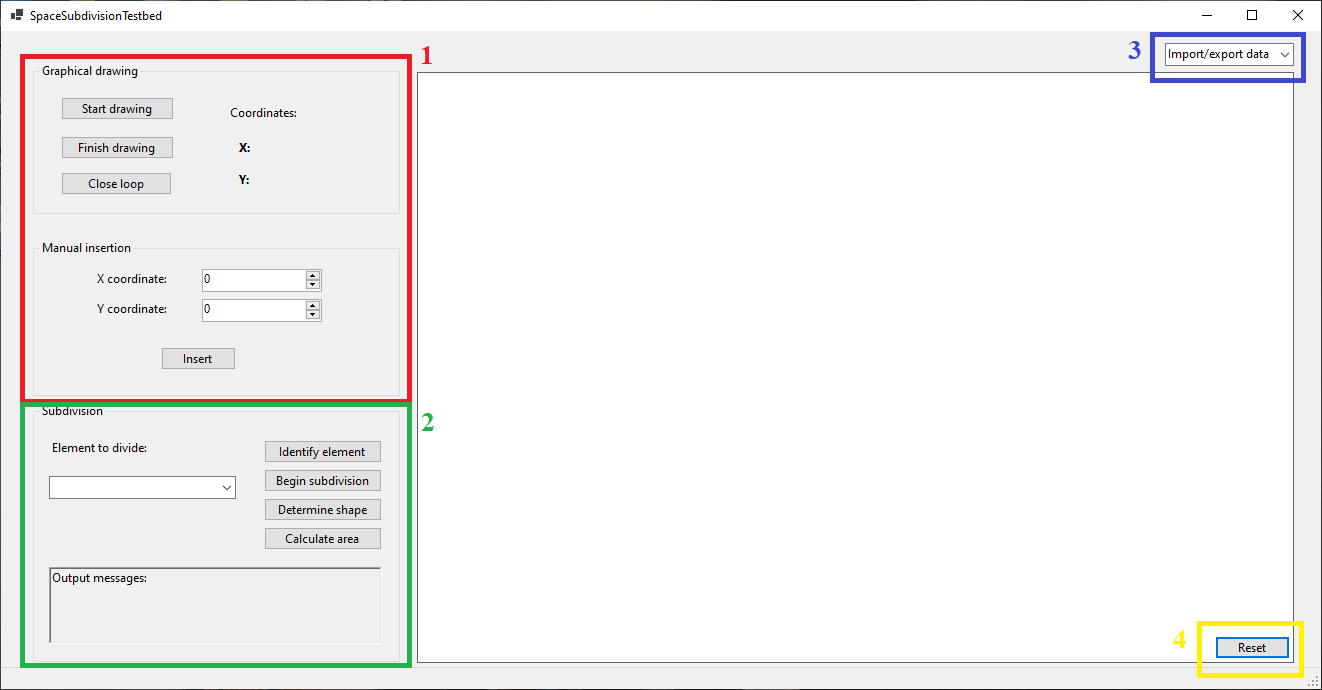
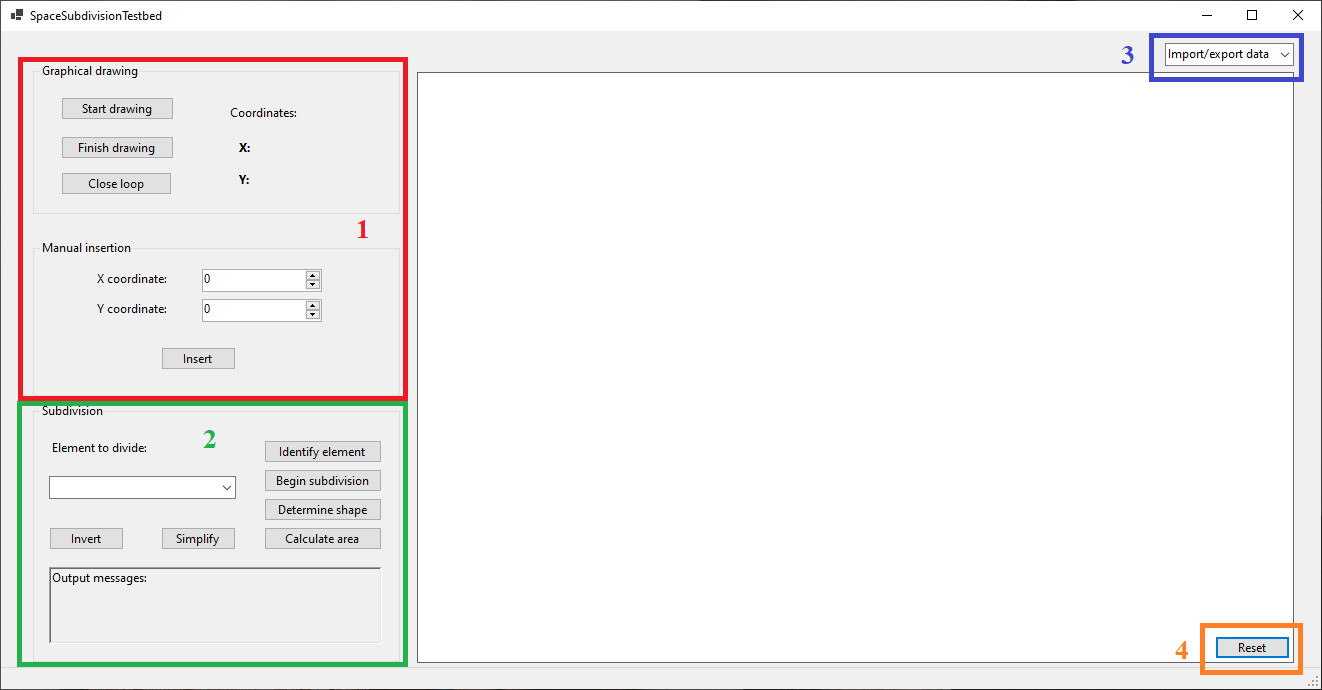
major readme update

diff --git a/README.md b/README.md
@@ -1,6 +1,6 @@
 # SpaceSubdivisionTestbed
 
-*SpaceSubdivisionTestbed* is a desktop graphical tool intended for subdividing different types of 2D space. The application was created by using .NET 6 framework and the Windows Forms template type.
+*SpaceSubdivisionTestbed* is a desktop graphical tool intended for automatically subdividing different types of 2D polygons. The application was created by using .NET 6 framework and the Windows Forms template type.
 
 If you use this application, please cite the following work:
 
@@ -32,9 +32,11 @@ The user interface of the application is shown below. It consists of four main f
 
 ### 1. Drawing shapes
 
-Drawing shapes is done by adding edges to the panel. All edges must be added in a counter-clockwise order with any starting point. To initiate drawing, the user first needs to click on the *Start drawing* button. Shapes can be drawn in two ways:
+Drawing shapes is done by adding polygon edges to the panel. All edges must be added in a counter-clockwise order with any starting point. If the user reverses the order, they can always use the *Invert* button from the *Subdivision* groupbox to reverse the order a second time.
 
-1. **Graphical drawing**, which allows the user to draw a shape by using their pointer on the panel. After starting the drawing, the user needs to click on the desired location in order to add a new node described by X and Y coordinates. After adding the initial node, the current pointer location is shown on the left side of the *Graphical drawing* groupbox.
+To initiate drawing, the user first needs to click on the *Start drawing* button. Shapes can be drawn on the panel in two ways:
+
+1. **Graphical drawing**, which allows the user to draw a polygon by using their pointer on the panel. After starting the drawing, the user needs to click on the desired location in order to add a new node described by X and Y coordinates. After adding the initial node, the current pointer location is shown on the left side of the *Graphical drawing* groupbox (X and Y coordinates).
 
 An example of graphical drawing is shown below.
 
@@ -46,37 +48,45 @@ An example of manual insertion is shown below.
 
 ![](https://github.com/ehlymana/SpaceSubdivisionTestbed/blob/main/README%20figures/manual.gif)
 
-The process of drawing a shape is finished when the final node is equal to the starting node. In order to achieve this, the user can either graphically or manually specify this node (and create the final edge) and then click on the *Finish drawing* button. Alternatively, the user can click on the *Close loop* button which will automatically add the final edge and finish drawing the shape.
+The process of drawing a polygon is finished when the final node is equal to the starting node. In order to achieve this, the user can either graphically or manually specify this node (and create the final edge) and then click on the *Finish drawing* button. Alternatively, the user can click on the *Close loop* button which will automatically add the final edge and finish drawing the polygon.
 
-### 2. Working with shapes
+### 2. Working with polygons
 
-a) Shape identification
+a) **Polygon identification**
 
-After the shape is successfully drawn, its edges are colored in a random color in order to make the distinguishing from other shapes easier. However, sometimes multiple shapes can have similar colors, so it can be necessary to find out the ID tags of each shape.
+After the polygon is successfully drawn, its edges are colored in a randomly determined color in order to make the distinguishing from other polygons easier. However, sometimes multiple polygons can have similar colors, so it can be necessary to find out the ID tags of each polygon.
 
-In order to identify a shape, the *Identify element* button from the *Subdivision* groupbox needs to be clicked. After hovering the pointer over the desired shape, a tooltip with the ID of the shape will be shown. The ID and the color of the shape can now be used to correctly identify the shape for further usage. A demonstration of this feature can be found in the next subsection.
+In order to identify a polygon, the *Identify element* button from the *Subdivision* groupbox needs to be clicked. After hovering the pointer over the desired polygon, a tooltip with the ID of the polygon will be shown. The ID and the color of the polygon can now be used to correctly identify the polygon for further usage. A demonstration of this feature can be found in the example for performing polygon subdivision below.
 
-b) Shape subdivision
+b) **Polygon subdivision**
 
-After selecting the desired existing shape and clicking on the *Begin subdivision* button from the *Subdivision* groupbox, shape subdivision will be performed. The subdivision works on arbitrary shape types and always subdivides the shape in half, by using the longer dimension (X or Y).
+After selecting the desired existing polygon and clicking on the *Begin subdivision* button from the *Subdivision* groupbox, polygon subdivision will be performed. The subdivision works on arbitrary shape types and always subdivides the polygon in half, by using the longer dimension (X or Y).
 
-An example of shape subdivision and identification is shown below.
+An example of polygon subdivision and identification is shown below.
 
 ![](https://github.com/ehlymana/SpaceSubdivisionTestbed/blob/main/README%20figures/subdivision.gif)
 
-c) Determining shape type
+c) **Determining shape type**
 
-Each shape belongs to one of four categories: rectangular, axis-aligned, convex, or irregular. After the user selects the desired shape and clicks on the *Determine shape* button from the *Subdivision* groupbox, the text box below the controls will show information about the type of the input shape. A demonstration of this feature can be found in the next subsection.
+Each polygon belongs to one of four shape categories: rectangular, axis-aligned, convex, or irregular. After the user selects the desired polygon and clicks on the *Determine shape* button from the *Subdivision* groupbox, the text box below the controls will show information about the shape type of the input polygon. A demonstration of this feature is shown below.
 
-Several types of data can be identified for a single shape:
+![](https://github.com/ehlymana/SpaceSubdivisionTestbed/blob/main/README%20figures/shapetype.gif)
 
-d) Shape area calculation
+d) **Polygon area calculation**
 
-After selecting the desired shape, the user can click on the *Calculate area* button from the *Subdivision* groupbox. This will calculate the area which the shape occupies, expressed in pixels (e.g. if a rectangle is 100 by 100 pixels long, it occupies an area of 1,000 pixels).
+After selecting the desired polygon, the user can click on the *Calculate area* button from the *Subdivision* groupbox. This will calculate the area which the polygon occupies, expressed in pixels (e.g. if a rectangle is 100 by 100 pixels long, it occupies an area of 1,000 pixels).
 
-An example of shape subdivision and identification is shown below.
+An example of area calculation is shown below.
 
-![](https://github.com/ehlymana/SpaceSubdivisionTestbed/blob/main/README%20figures/shape.gif)
+![](https://github.com/ehlymana/SpaceSubdivisionTestbed/blob/main/README%20figures/area.gif)
+
+e) **Polygon simplification**
+
+Iterative subdivision can be performed on a single polygon. The subdivision stops either when all subdivided polygons are of rectangular shape, or after the 10th iteration is finished. To perform polygon simplification, the user needs to click on the *Simplify* button from the *Subdivision* groupbox. Iterative subdivision will be performed on the desired polygon and information about the overall area of leftover convex elements will be shown in a message box.
+
+An example of polygon simplification is shown below.
+
+![](https://github.com/ehlymana/SpaceSubdivisionTestbed/blob/main/README%20figures/simplification.gif)
 
 ### 3. Data persistence
 
@@ -86,8 +96,12 @@ The *Import/export data* button is located at the top right corner of the tool. 
 SpaceSubdivisionTestbed/Examples
 ```
 
-The JSON format can also be used for programmatically adding new shapes without having to draw them manually.
+The JSON format can also be used for programmatically adding new shapes without having to draw them manually. An example of importing and exporting data is shown below.
+
+![](https://github.com/ehlymana/SpaceSubdivisionTestbed/blob/main/README%20figures/importexport.gif)
 
 ### 4. Reset
 
-The user can click on the *Reset* button, located at the right bottom corner of the panel, at any time to delete all existing shapes from the panel and start the process of drawing and subdivision over again.
+The user can click on the *Reset* button, located at the right bottom corner of the panel, at any time to delete all existing shapes from the panel and start the process of drawing and subdivision over again. An example of this feature is shown below.
+
+![](https://github.com/ehlymana/SpaceSubdivisionTestbed/blob/main/README%20figures/reset.gif)
